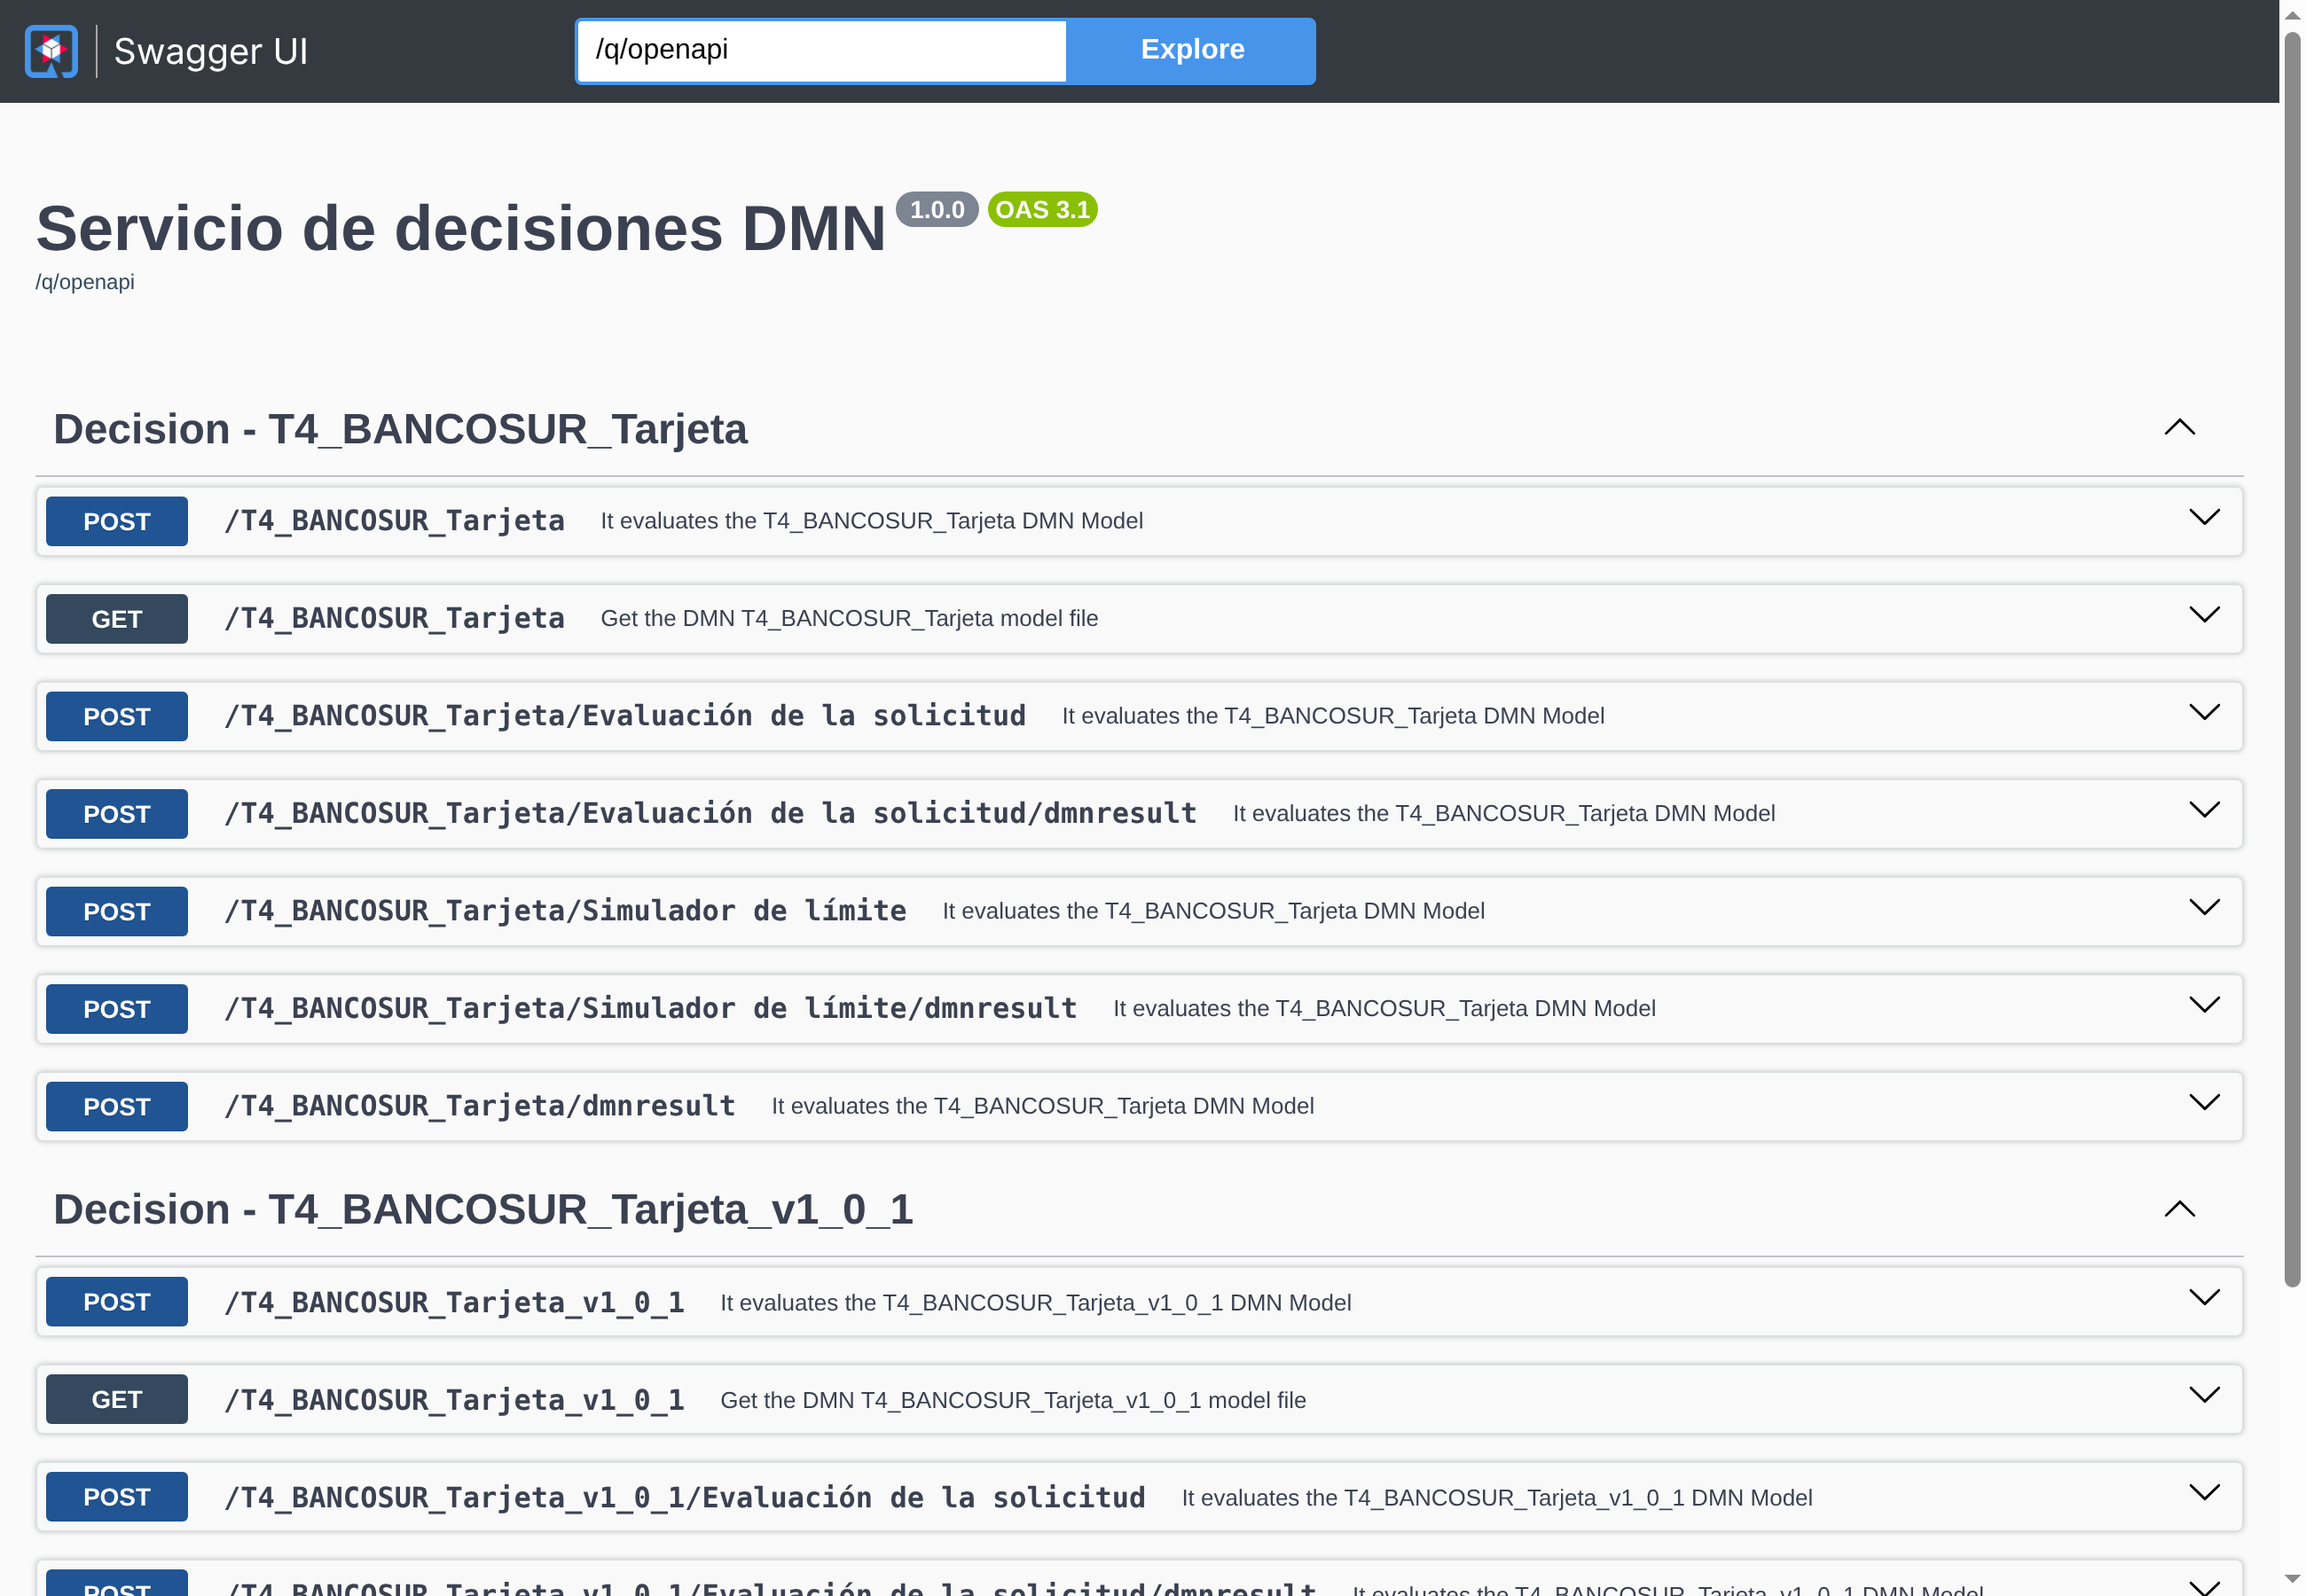
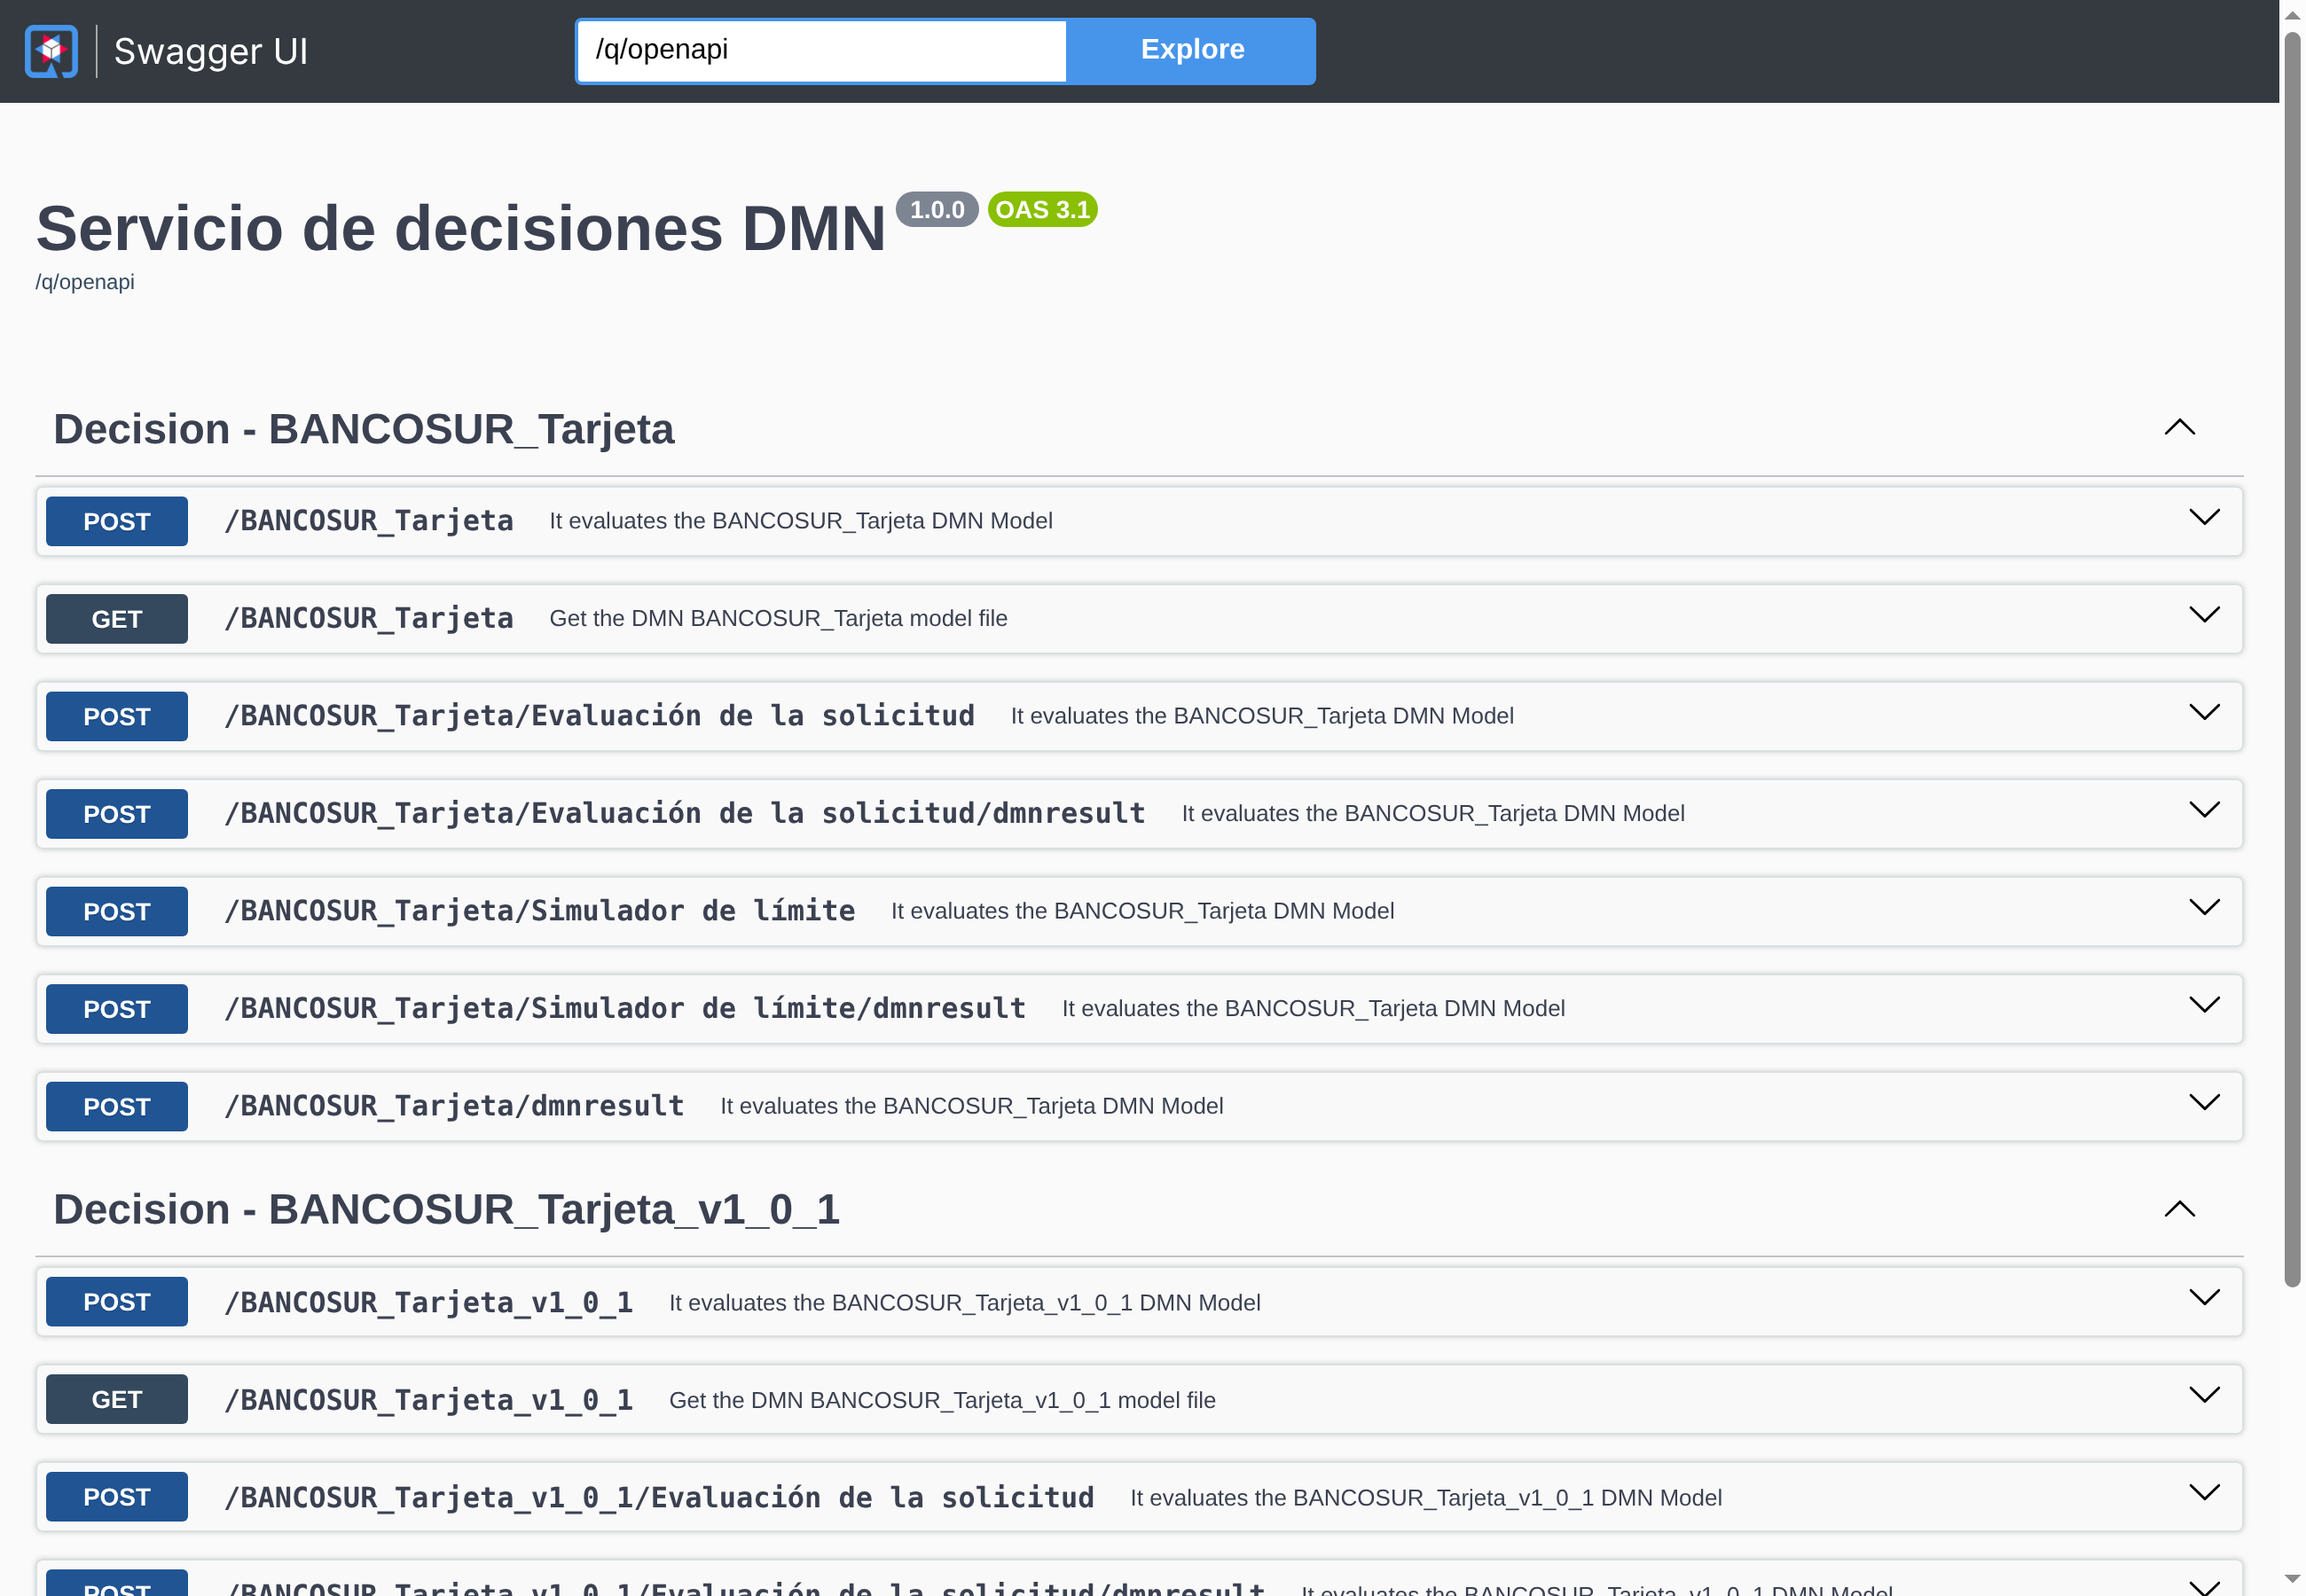
Modelos sin número de tema (BANCOSUR_Tarjeta) y aclaración sobre la comprobación de tipos en el README
- Los modelos se llaman BANCOSUR_Tarjeta y BANCOSUR_Tarjeta_v1_0_1 (antes T4_...): la ruta del servicio ya no muestra el número de tema.
- Baterías, simulación y README actualizados con el nuevo nombre; capturas de docs/img rehechas.
- README: con la comprobación de tipos, un valor fuera de los permitidos se rechaza, pero un texto en un campo numérico pasa a null sin aviso; los servicios de decisión son más permisivos.

diff --git a/README.md b/README.md
@@ -58,14 +58,14 @@ En Swagger UI, por cada modelo veréis estas operaciones:
 
 ### 4. Llamad al servicio
 
-1. Desplegad la operación `POST /T4_BANCOSUR_Tarjeta/Evaluación de la solicitud`.
+1. Desplegad la operación `POST /BANCOSUR_Tarjeta/Evaluación de la solicitud`.
 2. Pulsad **Try it out**.
 3. En *Request body* pegad el contenido de un fichero de la carpeta `peticiones` (por ejemplo, `bancosur_aprobar.json`).
 4. Pulsad **Execute**.
 
 ![Petición en Swagger UI](docs/img/02_try_it_out.png)
 
-Debajo aparece la respuesta: el **código** (200 si todo ha ido bien) y el **cuerpo** JSON con el resultado: como es un servicio de decisión, solo la decisión de salida, el resultado de la solicitud. Probad la misma petición con `POST /T4_BANCOSUR_Tarjeta` y comparad: el modelo completo devuelve también todas las decisiones intermedias. Probad también las otras peticiones de la carpeta: la que no trae ingresos y la que trae el endeudamiento escrito como texto. Swagger muestra además la orden `curl` equivalente, por si queréis repetir la llamada desde un terminal.
+Debajo aparece la respuesta: el **código** (200 si todo ha ido bien) y el **cuerpo** JSON con el resultado: como es un servicio de decisión, solo la decisión de salida, el resultado de la solicitud. Probad la misma petición con `POST /BANCOSUR_Tarjeta` y comparad: el modelo completo devuelve también todas las decisiones intermedias. Probad también las otras peticiones de la carpeta: la que no trae ingresos y la que trae el endeudamiento escrito como texto. Swagger muestra además la orden `curl` equivalente, por si queréis repetir la llamada desde un terminal.
 
 ![Respuesta del servicio](docs/img/03_respuesta.png)
 
@@ -164,7 +164,9 @@ Para guardar los modelos en vuestro repositorio de GitHub: icono de **Source Con
 
 ## Preguntas frecuentes
 
-**La respuesta da código 500.** El servicio ha recibido la petición, pero no ha podido decidir: o algún dato no cumple el contrato (un valor que no está entre los permitidos, un texto donde va un número), o alguna decisión ha fallado. El entorno trabaja en **modo estricto**: comprueba los tipos de los datos de entrada y rechaza los que no encajan, en lugar de seguir con un null. Repetid la llamada con la operación `/dmnresult`: el campo `messages` dice qué decisión falló y por qué, y `decisionResults` muestra el estado de cada una (`SUCCEEDED`, `FAILED` o `SKIPPED`).
+**La respuesta da código 500.** El servicio ha recibido la petición, pero no ha podido decidir: o algún dato no cumple el contrato, o alguna decisión ha fallado. El entorno trabaja con la **comprobación de tipos activada** (también llamada *modo estricto*): al llamar al modelo completo, rechaza un texto que no está entre los valores permitidos de su tipo (por ejemplo, «congelado» si el valor permitido es «Congelado») o un valor de un tipo que no encaja, como un texto en un campo de sí o no. Repetid la llamada con la operación `/dmnresult`: el campo `messages` dice qué decisión falló y por qué, y `decisionResults` muestra el estado de cada una (`SUCCEEDED`, `FAILED` o `SKIPPED`).
+
+**Envío un texto donde va un número y no da error.** Es así: si un campo numérico recibe un texto que no es un número (por ejemplo, `"28 %"`), el motor lo convierte en `null` **sin ningún aviso** y el modelo sigue decidiendo. Por eso conviene que el propio modelo compruebe que los datos obligatorios han llegado. Los servicios de decisión (`/<modelo>/<servicio>`) son además más permisivos que el modelo completo: si un dato no cumple su tipo, lo ponen a `null`, avisan en los mensajes y responden 200.
 
 **La respuesta da código 400.** El JSON está mal formado (falta una llave, una coma o unas comillas). Revisadlo o pegad de nuevo un ejemplo de `peticiones`.
 
